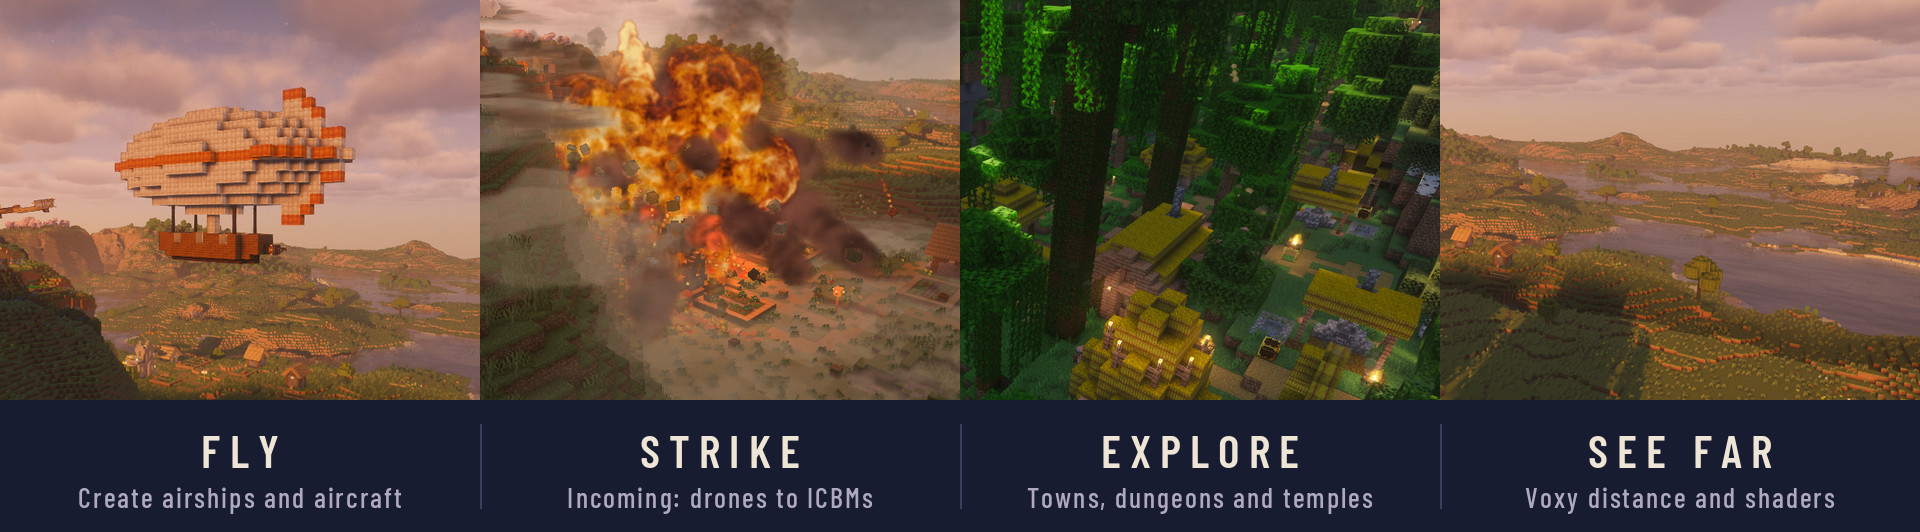
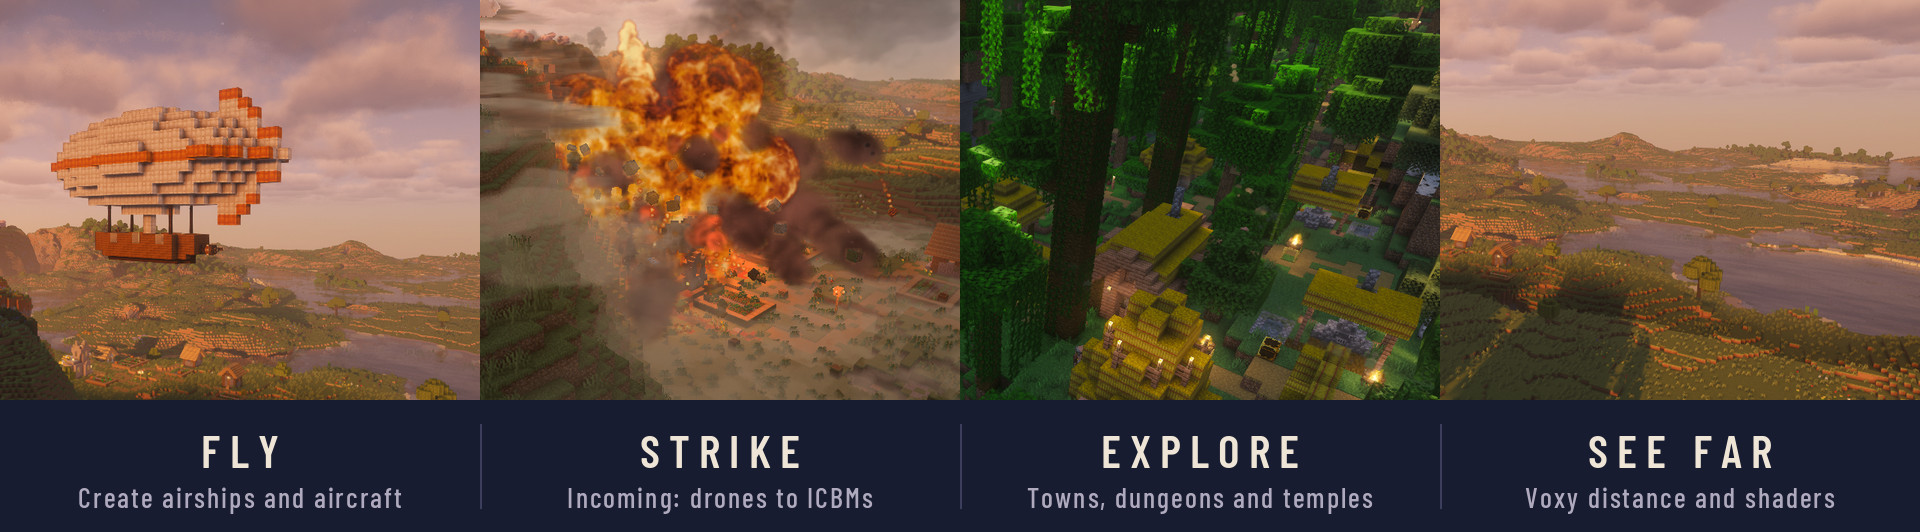
Review fixes: Servers anchor, SAM wording, store pages use in-game images only
- '## Servers' heading; links from the README and store texts point to #servers
- SAM: drones, cruise missiles and bombers (Incoming 3.13.0)
- pixel icon and wordmark described as code-drawn with AI assistance; store kit uses
  icon-ingame.png and banner-store.jpg (plain frame), the pixel art stays on GitHub
- Voxy-on-the-map claim without LOD Server Support; Euphoria's fourth shader entry; nukes FAQ;
  update copies saves; Not Enough Animations and Propulsion in the non-commercial list
- gallery: weakest two frames dropped; strip crop without the biplane sliver; Voxy and Modrinth quotes

Changed region(s): [[0.0, 0.0301, 0.25, 0.7519], [0.125, 0.0, 0.1562, 0.0301], [0.0625, 0.0902, 0.0938, 0.1203]]

diff --git a/docs/media/src/icon.py b/docs/media/src/icon.py
@@ -1,4 +1,4 @@
-"""Open Skies pixel icon: 32x32 hand-placed pixels (palette from Incoming's icon), nearest-neighbour scaled.
+"""Open Skies pixel icon: 32x32 pixels placed cell by cell (palette from Incoming's icon), nearest-neighbour scaled.
 
 python3 icon.py out.png  → out.png (512), out-400.png (CurseForge avatar), out-32.png (the 32×32 source)"""
 import sys

diff --git a/docs/store/README.md b/docs/store/README.md
@@ -8,19 +8,20 @@ project, uploading and publishing need the owner's word (AGENTS.md, "Stores"). U
 | Platform | Verdict | What has to happen first |
 |---|---|---|
 | GitHub | **live** | Releases with `.mrpack` and the Prism zip; this README and the images. |
-| Modrinth | **later, ready to upload** | 1. Incoming public on Modrinth, then `pack/mods/incoming.pw.toml` switched to its Modrinth file (a pack release). Until then the `.mrpack` links Incoming from GitHub, which Modrinth accepts only with a permission declaration ("Your project"). 2. The "Contains AI-generated content" disclosure set (rule 6.1). 3. The owner's call on rule 6.2 for the icon and wordmark (below). |
+| Modrinth | **later, ready to upload** | 1. Incoming public on Modrinth, then `pack/mods/incoming.pw.toml` switched to its Modrinth file (a pack release). Until then the `.mrpack` links Incoming from GitHub, which Modrinth accepts only with a permission declaration ("Your project"). 2. The "Contains AI-generated content" disclosure set (rule 6.1). Store images are in-game frames only (rule 6.2, below). |
 | CurseForge | **later** | Not reachable as the pack is today: Voxy (and so Roxy and LOD Server Support) cannot be in a CurseForge pack, Incoming is not on CurseForge, packs must be built with the CurseForge App, and some files are unverified there. |
 
-**Why Modrinth waits.** Modrinth reviews modpacks by hand and checks every file from outside its CDN
-([modpack permissions, 2026](https://modrinth.com/news/article/modpack-permissions)). Its content rules
+**Why Modrinth waits.** Modrinth reviews modpacks by hand. Since June 2026 a creator declares a permission for every
+file not hosted on Modrinth before submitting, and the version is withheld until that is reviewed
+([modpack permissions](https://modrinth.com/news/article/modpack-permissions)). Its content rules
 ([rules](https://modrinth.com/legal/rules), 6.1–6.2) require the AI disclosure when "a substantial portion of the
 project's code is a product of AI output" or "any element of the project's page such as description or publishing
 relies on generative AI", and forbid gallery, icon or description images "created or derived from generative AI
-output". The pack's own files and these texts were written with Claude's help, so the disclosure applies. The images
-are in-game frames, but the pixel icon and wordmark were placed cell by cell in code ([../media/src](../media/src)) in
-an AI-assisted session: whether moderation counts that as "derived from generative AI output" is the owner's call. If
-not accepted, [icon-ingame.png](../media/icon-ingame.png) (a crop of an in-game frame) replaces the icon and the banner
-can go without the wordmark. Weapons content is not a rule issue on either store: Modrinth and CurseForge host similar
+output". The pack's own files and these texts were written with Claude's help, so the disclosure applies. The store images are therefore
+in-game frames only: [icon-ingame.png](../media/icon-ingame.png) (a crop of the airship frame) as the icon and
+[banner-store.jpg](../media/banner-store.jpg) (the banner's frame without the wordmark) at the top of the description.
+The pixel icon and wordmark were placed cell by cell in code written with AI assistance ([../media/src](../media/src)),
+which a moderator could read as "derived from generative AI output": they stay on GitHub. Weapons content is not a rule issue on either store: Modrinth and CurseForge host similar
 mods (HBM's Nuclear Tech, ICBM, Warium, Superb Warfare); the page keeps real-world politics out.
 
 **Why CurseForge waits.** CurseForge packs may contain only CurseForge files, or non-CurseForge mods on its approved
@@ -48,10 +49,10 @@ edition would be a different pack (no Voxy, Incoming published there first).
 | Issues | https://github.com/zentixua/open-skies/issues |
 | Wiki | https://github.com/zentixua/open-skies#readme |
 | Discord, donations | none |
-| Icon | [icon.png](../media/icon.png) 512×512 (Modrinth); [icon-400.png](../media/icon-400.png) 400×400 (CurseForge avatar) |
+| Icon | [icon-ingame.png](../media/icon-ingame.png) 512×512 (Modrinth); [icon-ingame-400.png](../media/icon-ingame-400.png) 400×400 (CurseForge avatar). Not the pixel icon (rule 6.2, above) |
 | Version name, file | `Open Skies <version>`, the release's `Open-Skies.mrpack` (same file as on GitHub) |
 | Changelog | the version's section of [CHANGELOG.md](../../CHANGELOG.md) |
-| Content disclosure | Contains AI-generated content (code and texts written with AI assistance; images are in-game frames) |
+| Content disclosure | Contains AI-generated content (the pack's tools and these texts were written with AI assistance; the store images are untouched in-game frames) |
 
 The description repeats no download links: stores install through their own launchers, and CurseForge forbids
 external downloads. Images are absolute `raw.githubusercontent.com` links to `main`; they load once this kit is
@@ -59,8 +60,7 @@ merged.
 
 ## Gallery
 
-Untouched in-game frames, 1920×1080, from this pack with Complementary Unbound + Euphoria Patches (the banner adds the
-wordmark and tagline). The world is a fresh one; scenes were set up with commands, and the airship is a real Create
+Untouched in-game frames, 1920×1080, from this pack with Complementary Unbound + Euphoria Patches. The world is a fresh one; scenes were set up with commands, and the airship is a real Create
 Aeronautics contraption assembled from blocks. Featured image: the first.
 
 | File | Title | Description |
@@ -69,12 +69,11 @@ Aeronautics contraption assembled from blocks. Featured image: the first.
 | [airship.jpg](../media/gallery/airship.jpg) | Built from blocks | Balloon, burner, gondola and propeller: an airship assembled with Create Aeronautics. |
 | [strike.jpg](../media/gallery/strike.jpg) | Incoming: cruise missile strike | A missile salvo hits a village at dusk. |
 | [blast-wave.jpg](../media/gallery/blast-wave.jpg) | Blast wave | Dust from the impact rolls over the hillside. |
-| [biplane.jpg](../media/gallery/biplane.jpg) | After the strike | An Immersive Aircraft biplane passes the smoke column over the village. |
-| [valley-above.jpg](../media/gallery/valley-above.jpg) | From above | The valley, the airship and the smoke from high up, Voxy terrain to the horizon. |
 | [jungle-village.jpg](../media/gallery/jungle-village.jpg) | Towns and Towers | A jungle village among the trees in the morning. |
 
-Also in [../media](../media): [banner.jpg](../media/banner.jpg) 1920×640 (page header) and
-[features.jpg](../media/features.jpg) (the "fly, strike, explore, see far" strip). How each image was made:
+Also in [../media](../media): [banner-store.jpg](../media/banner-store.jpg) 1920×640 (store page header, a plain
+frame); [banner.jpg](../media/banner.jpg) and [features.jpg](../media/features.jpg) (with the wordmark and typeset
+labels) are for GitHub only. How each image was made:
 [../media/src](../media/src).
 
 ## License pass (26.11.2026)
@@ -86,7 +85,7 @@ is on CurseForge with distribution allowed.
 | File | License | Modrinth | CurseForge | Source |
 |---|---|---|---|---|
 | Incoming 3.13.0 | GPL-3.0-only (the owner's mod) | after Incoming is on Modrinth, or declared "Your project" | no: not on CurseForge | [releases](https://github.com/zentixua/incoming/releases) |
-| Voxy 0.2.16-beta+1.21.11 | All Rights Reserved; modpacks allowed with a link back and the version from its Modrinth page | yes (Modrinth CDN, credited) | no: link-back condition, no CurseForge page | [modrinth.com/mod/voxy](https://modrinth.com/mod/voxy) |
+| Voxy 0.2.16-beta+1.21.11 | All Rights Reserved; modpacks allowed "as long as you link the mod back to this page and the version used is avaible on this modrinth mod page. (i.e. please do not use or include unofficial backports or versions)". The pack links that official file unmodified; Roxy runs it on 1.21.1, which a moderator may ask about | yes (Modrinth CDN, credited) | no: link-back condition, no CurseForge page | [modrinth.com/mod/voxy](https://modrinth.com/mod/voxy) |
 | Roxy, LOD Server Support | MIT | yes | no Voxy, no use (LOD Server Support's 1.21.1 file there unverified) | [Roxy](https://modrinth.com/mod/roxy), [LSS](https://modrinth.com/mod/lod-server-support) |
 | Create Aeronautics (bundled) 1.3.2 | code MIT, assets All Rights Reserved | yes (Modrinth CDN) | unverified: a CurseForge project exists, this file not confirmed | [source](https://github.com/Creators-of-Aeronautics/Simulated-Project) |
 | GraveStone × Sable patch 1.0.0 | MIT | yes | not on CurseForge: needs the approved list | [source](https://github.com/thallada/gravestone-sable-compat) |

diff --git a/README.md b/README.md
@@ -1,5 +1,5 @@
 <p align="center">
-  <img src="docs/media/banner.jpg" alt="Open Skies: a biplane flies past smoke rising from a struck village at dusk">
+  <img src="docs/media/banner.jpg" alt="Open Skies: a biplane flies past a smoke column rising from a strike below, at dusk">
 </p>
 
 <p align="center">
@@ -11,7 +11,7 @@
 <p align="center">
   <a href="https://github.com/zentixua/open-skies/releases/latest/download/Open-Skies.mrpack"><b>⬇ Download Open-Skies.mrpack</b></a>
   &nbsp;·&nbsp; <a href="#install">How to install</a>
-  &nbsp;·&nbsp; <a href="#play-with-friends">Servers</a>
+  &nbsp;·&nbsp; <a href="#servers">Servers</a>
   &nbsp;·&nbsp; <a href="https://github.com/zentixua/open-skies/issues">Report a problem</a>
 </p>
 
@@ -37,12 +37,12 @@ waystones.
 
 [Incoming](https://github.com/zentixua/incoming) is the heart of the pack. Aim the Strike Designator at a target, or
 pick one on its map, and send a Shahed drone, a Lancet, cruise missiles, Grad rockets or a B-2 with a bunker buster.
-Blasts break blocks, shatter windows and start fires; smoke and dust drift with the wind. SAM sites shoot down drones
-and missiles, and sirens warn players near a target. Nuclear strikes (an ICBM, or a nuclear warhead
+Blasts break blocks, shatter windows and start fires; smoke and dust drift with the wind. SAM sites shoot down drones,
+cruise missiles and bombers, and sirens warn players near a target. Nuclear strikes (an ICBM, or a nuclear warhead
 on a missile or bomb) are for operators by default.
 
 In this pack Incoming works with its neighbours: Create Aeronautics airships are targets that blasts break and push,
-munition recipes use Create parts, Voxy and LOD Server Support show distant terrain on the targeting map, and the
+munition recipes use Create parts, Voxy shows distant terrain on the targeting map, and the
 pack's settings keep Incoming's trails, debris and sounds intact with the culling, particle and sound mods.
 
 ![A cruise missile salvo hits a village at dusk: fireball, black smoke and the dust wave on the hillside](docs/media/gallery/strike.jpg)
@@ -67,12 +67,13 @@ recipes, no quests: advancements and this page are the guide.
 [Voxy](https://modrinth.com/mod/voxy) draws terrain far beyond the normal view distance. Three shaderpacks come with
 the pack, none switched on: [Photon](https://modrinth.com/shader/photon-shader) (the most beautiful, the heaviest),
 [Complementary Unbound](https://modrinth.com/shader/complementary-unbound) (with low-end presets) and
-[MakeUp Ultra Fast](https://modrinth.com/shader/makeup-ultra-fast-shaders) (for weak PCs). Press **K** to turn shaders
-on or off and **O** to choose one.
+[MakeUp Ultra Fast](https://modrinth.com/shader/makeup-ultra-fast-shaders) (for weak PCs), all with Voxy support.
+Euphoria Patches adds its own copy of Complementary ("ComplementaryUnbound + EuphoriaPatches") on first launch, so the
+list shows four. Press **K** to turn shaders on or off and **O** to choose one.
 
 ### Play with friends
 
-Singleplayer, LAN or a dedicated server. [Open Parties and Claims](https://modrinth.com/mod/open-parties-and-claims)
+Survival or creative; singleplayer, LAN or a dedicated server ([setup](#servers)). [Open Parties and Claims](https://modrinth.com/mod/open-parties-and-claims)
 protects builds and [Simple Voice Chat](https://modrinth.com/plugin/simple-voice-chat) is optional. Incoming's world
 rules switch block damage and fires on or off and cap strikes per player.
 
@@ -85,7 +86,8 @@ rules switch block damage and fires on or off and cap strikes per player.
    ATLauncher imports it too.
 4. Give the game 6 GB of memory in the instance's settings (Java and memory), then press Play.
 
-To update, download the new release and import it the same way. Your worlds are in the old instance's `saves` folder.
+To update, download the new release and import it the same way, then copy the `saves` folder (your worlds) from the
+old instance into the new one.
 
 **Auto-updating instance (Prism Launcher).** [Open-Skies.zip](https://github.com/zentixua/open-skies/releases/latest/download/Open-Skies.zip)
 is a Prism instance that updates itself to the latest release before every launch
@@ -109,7 +111,7 @@ folder, and leave voice chat unticked; 4–5 GB of memory is then enough.
 [Roxy's extra libraries](https://github.com/RasaNovum/Roxy/blob/main/Roxy-macOS-compat/setup-guide.md). Otherwise
 remove both `roxy-*.jar` and `voxy-*.jar` as above. The auto-updating zip would bring them back: use the `.mrpack`.
 
-## Play with friends
+## Servers
 
 Install NeoForge (the version in [pack.toml](pack/pack.toml)) on the server, then the server side of the pack, either:
 - with packwiz-installer, in the server directory
@@ -171,6 +173,10 @@ terrain overhauls (cost and Voxy), a second mod for a role already filled.
 **How often is it updated?** About once a month, plus fixes for crashes. Each release lists its changes in the
 [changelog](CHANGELOG.md).
 
+**Nuclear strikes do nothing in my world.** They are for operators by default. In singleplayer, create the world
+with cheats on (or open it to LAN with cheats allowed); a server owner makes players operators or switches
+`nuclear.ops_only` off ([Incoming's world settings](https://github.com/zentixua/incoming/blob/main/docs/guide/settings.md#world-settings)).
+
 **Shaders turned themselves off.** If Voxy cannot start its renderer with a shaderpack, Voxy turns shaders off and
 Iris remembers it: press K to turn them on again.
 
@@ -191,16 +197,17 @@ to fork it as a template for your own pack: [docs/pack-makers.md](docs/pack-make
 This repository's own files (tools, CI, configs, docs, images) are under the [MIT license](LICENSE). The pack links
 every mod from its official source and bundles none: each file keeps its author's license. The pack is not monetised,
 because several mods it uses (Big Cannons assets, Jade, Man of Many Planes, Towns and Towers, Cristel Lib, Entity
-Culling, 3D Skin Layers and Better Advancements) allow only non-commercial use.
+Culling, 3D Skin Layers, Not Enough Animations, Propulsion: Simulated and Better Advancements) allow only
+non-commercial use.
 - **Voxy** is by MCRcortex: [modrinth.com/mod/voxy](https://modrinth.com/mod/voxy). The pack uses the official file
   `voxy-0.2.16-beta+1.21.11` from that page, unmodified. **Roxy** ([modrinth.com/mod/roxy](https://modrinth.com/mod/roxy))
   runs it on NeoForge 1.21.1: report problems with Voxy in this pack to Roxy or to us, never to Voxy.
 - **Complementary Shaders** by EminGT: [complementary.dev](https://www.complementary.dev/).
 - **Subtle Effects** ([modrinth.com/mod/subtle-effects](https://modrinth.com/mod/subtle-effects)) is credited here as
   its author asks; Default Options and Balm (BlayTheNinth) ask that their names stay out of a pack's title.
-- The images are in-game frames from this pack (Complementary Unbound with Euphoria Patches); the icon and the
-  wordmark are hand-placed pixel art in Incoming's style ([docs/media/src](docs/media/src)), the tagline font is
-  Barlow Condensed (SIL Open Font License 1.1).
+- The screenshots are in-game frames from this pack (Complementary Unbound with Euphoria Patches). The icon and the
+  wordmark are pixel art placed cell by cell in code, written with AI assistance, in Incoming's style
+  ([docs/media/src](docs/media/src)); the tagline font is Barlow Condensed (SIL Open Font License 1.1).
 - Left out on purpose: shaderpacks and mods whose authors forbid redistribution or can revoke it (BSL, Flashback,
   Essential). `tools/check_sources.py` enforces this in CI.
 

diff --git a/docs/store/description.md b/docs/store/description.md
@@ -1,12 +1,10 @@
-![Open Skies: a biplane flies past smoke rising from a struck village at dusk](https://raw.githubusercontent.com/zentixua/open-skies/main/docs/media/banner.jpg)
+![A biplane flies past a smoke column rising from a strike below, at dusk](https://raw.githubusercontent.com/zentixua/open-skies/main/docs/media/banner-store.jpg)
 
 **Build airships, explore, and defend your world from the air.**
 
 Open Skies is a survival sandbox for Minecraft 1.21.1 built around Create and [Incoming](https://github.com/zentixua/incoming).
 Settle down, build machines and airships, and fly anywhere: flight is how you travel. When you choose to fight, aim
 through binoculars at anything you can see and send a drone, a salvo of cruise missiles or a nuclear ICBM.
-
-![Fly, strike, explore, see far](https://raw.githubusercontent.com/zentixua/open-skies/main/docs/media/features.jpg)
 
 ## Fly everywhere
 
@@ -20,11 +18,11 @@ elytra. There are no teleports or waystones.
 
 Incoming is the heart of the pack. Aim the Strike Designator at a target, or pick one on its map, and send a Shahed
 drone, a Lancet, cruise missiles, Grad rockets or a B-2 with a bunker buster. Blasts break blocks, shatter windows and
-start fires; smoke and dust drift with the wind. SAM sites shoot down drones and missiles, and sirens warn players
-near a target. Nuclear strikes are for operators by default.
+start fires; smoke and dust drift with the wind. SAM sites shoot down drones, cruise missiles and bombers, and sirens
+warn players near a target. Nuclear strikes are for operators by default.
 
 In this pack Incoming works with its neighbours: Create Aeronautics airships are targets that blasts break and push,
-munition recipes use Create parts, and Voxy and LOD Server Support show distant terrain on the targeting map.
+munition recipes use Create parts, and Voxy shows distant terrain on the targeting map.
 
 ![A cruise missile salvo hits a village at dusk: fireball, black smoke and the dust wave on the hillside](https://raw.githubusercontent.com/zentixua/open-skies/main/docs/media/gallery/strike.jpg)
 
@@ -41,13 +39,13 @@ munition recipes use Create parts, and Voxy and LOD Server Support show distant 
 ## See to the horizon
 
 Voxy draws terrain far beyond the normal view distance. Three shaderpacks come with the pack, none switched on:
-Photon, Complementary Unbound and MakeUp Ultra Fast. Press **K** to turn shaders on or off and **O** to choose one.
+Photon, Complementary Unbound and MakeUp Ultra Fast, all with Voxy support. Press **K** to turn shaders on or off and **O** to choose one.
 
 ## Play with friends
 
-Singleplayer, LAN or a dedicated server. Open Parties and Claims protects builds and Simple Voice Chat is optional.
+Survival or creative; singleplayer, LAN or a dedicated server. Open Parties and Claims protects builds and Simple Voice Chat is optional.
 Incoming's world rules switch block damage and fires on or off and cap strikes per player. Server setup:
-[the pack's README](https://github.com/zentixua/open-skies#play-with-friends).
+[the pack's README](https://github.com/zentixua/open-skies#servers).
 
 ## Requirements
 
@@ -65,6 +63,9 @@ instance's `mods` folder, or follow [Roxy's macOS guide](https://github.com/Rasa
 [Incoming's world rules](https://github.com/zentixua/incoming/blob/main/docs/guide/settings.md#world-settings).
 
 **Where are the keys?** The pack moves mods' keys so that none collide: [key list](https://github.com/zentixua/open-skies/blob/main/docs/keys.md).
+
+**Nuclear strikes do nothing in my world.** They are for operators by default: create the world with cheats on, or
+switch `nuclear.ops_only` off in Incoming's world settings.
 
 **Are there quests?** No. Open Skies is a sandbox: advancements and this page are the guide.
 

diff --git a/AGENTS.md b/AGENTS.md
@@ -55,8 +55,9 @@ latest release: packwiz-installer instances and servers read `pack/` from `main`
 - **Stores.** The pack is published on GitHub only. Uploading it to Modrinth or CurseForge needs the owner's word;
   [docs/store/README.md](docs/store/README.md) holds the kit and the license verdict per platform (Modrinth: once
   Incoming is public there; CurseForge: later, Voxy's permission does not meet its rules). Several mods allow only
-  non-commercial use (README, "Licenses and credits"): the pack is never monetised. Store and README images are
-  in-game frames or hand-placed pixel art, never generated images (Modrinth rule 6.2).
+  non-commercial use (README, "Licenses and credits"): the pack is never monetised. Store pages use only in-game
+  frames (Modrinth rule 6.2 forbids images "created or derived from generative AI output"); the code-drawn pixel icon
+  and wordmark, written with AI assistance, stay on GitHub.
 - **Merging.** A PR merges after green CI and one review by someone (or a model) who did not write it. Only serious
   errors (wrong behaviour, a crash) block.
 

diff --git a/docs/media/src/README.md b/docs/media/src/README.md
@@ -1,8 +1,10 @@
 # How the images were made
 
-No generated images: every picture is an in-game frame or pixel art placed cell by cell.
+No image generator was used: every picture is an in-game frame, or pixel art placed cell by cell in code written with
+AI assistance (Claude). Store pages use only the in-game frames (`icon-ingame.png`, `banner-store.jpg`, the gallery):
+docs/store/README.md.
 
-- **Icon** ([icon.py](icon.py)): a 32×32 grid typed by hand, Incoming's icon palette (night sky, dark ground,
+- **Icon** ([icon.py](icon.py)): a 32×32 grid of palette letters, Incoming's icon palette (night sky, dark ground,
   embers), an airship and a small mushroom cloud on the horizon; scaled with nearest neighbour to 512 and 400.
   `python3 icon.py ../icon.png`.
 - **Wordmark** ([wordmark.py](wordmark.py)): OPEN SKIES in Incoming's pixel letterforms (9 rows, strokes 2 cells,
